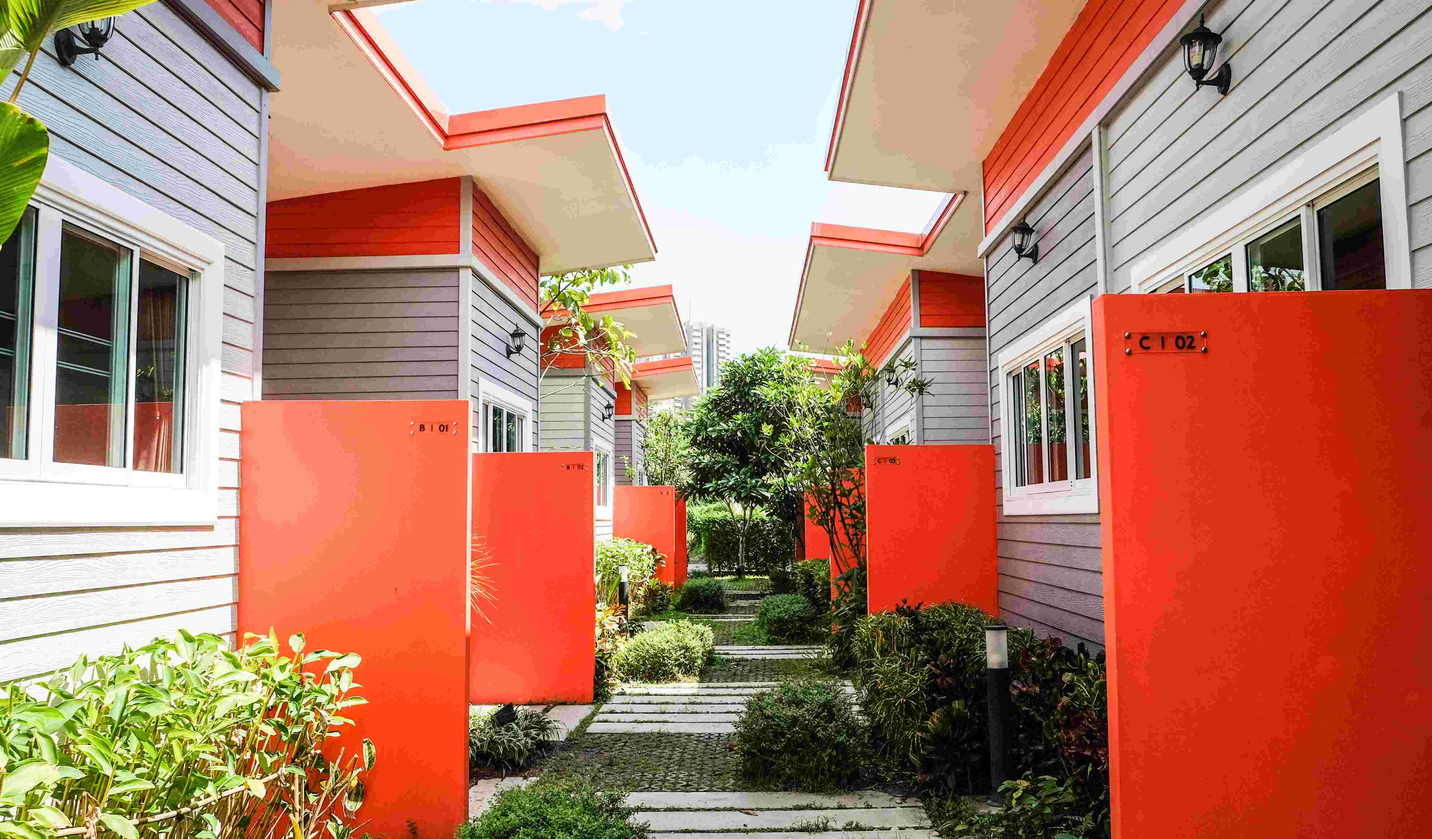
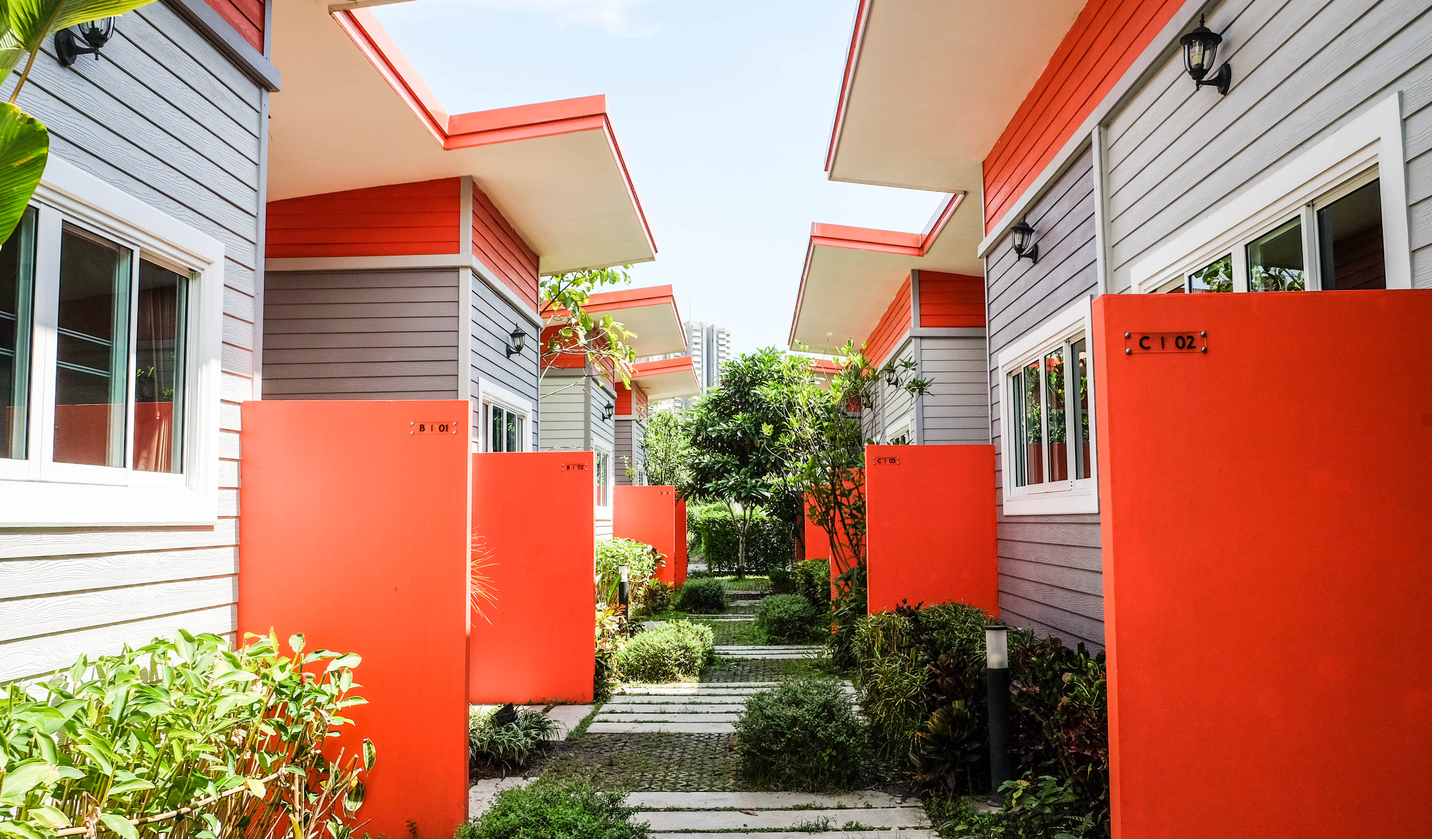
Remove slider

diff --git a/src/index.html b/src/index.html
@@ -14,7 +14,7 @@
     <link href='https://unpkg.com/boxicons@2.1.1/css/boxicons.min.css' rel='stylesheet'>
     <link rel="stylesheet" href="css/style.css">
 
-    <title>โรงแรม บ้าพเพ่ิมสุข เมืองทอง</title>
+    <title>โรงแรมเมืองทอง</title>
 </head>
 
 <body data-bs-spy="scroll" data-bs-target=".navbar" data-bs-offset="70">
@@ -75,20 +75,25 @@
         </div>
     </nav>
 
+    <!-- New header -->
+    <div class="header-background">
+      <h2 class="text-header">โรงแรมสะอาด ใกล้เมืองทอง</h2>
+      <div class="col-12 div-background-textbox">  </div> 
+      <img src="img/bg_banner2.jpg" alt="รูปภาพทดสอบ">
+    </div>
+
     <!-- SLIDER -->
     <div class="owl-carousel owl-theme hero-slider">
-        <div class="slide slide1">
+        <!-- <div class="slide slide1">
             <div class="container">
                 <div class="row">
-                    <div class="col-12 text-center text-white">
-                        <h6 class="text-white text-uppercase">design Driven for professional</h6>
-                        <h1 class="display-3 my-4">We craft digital<br />experiances</h1>
-                        <a href="#" class="btn btn-brand">Get Started</a>
-                        <a href="#" class="btn btn-outline-light ms-3">Our work</a>
-                    </div>
+                    <div class="col-12 div-background"></div>
+                    <h2  class="col-12 display-3 text-main-background">โรงแรมสะอาด ใกล้เมืองทอง<br />ราคาเข้าถึงได้</h2>
                 </div>
             </div>
-        </div>
+        </div> -->
+
+
         <!-- <div class="slide slide2">
             <div class="container">
                 <div class="row">

diff --git a/src/css/style.css b/src/css/style.css
@@ -98,7 +98,7 @@ section {
 }
 
 .slide1 {
-    background: linear-gradient(rgba(0, 0, 0, 0.4), rgba(0, 0, 0, 0.4)), url(../img/bg_banner2.jpg);
+    background:  url(../img/bg_banner2.jpg);
     background-size: cover;
     background-position: center;
     background-repeat: no-repeat;
@@ -111,10 +111,64 @@ section {
     background-repeat: no-repeat;
 }
 
+.header-background{
+    position: relative;
+}
+
+.div-background-textbox{
+    position:absolute;
+    background-color: black;
+    opacity:0.2;
+    top: 50%;
+    left: 50%;
+    transform: translate(-50%, -50%);
+    width: 75%;
+    height: 200px; 
+}
+
+.text-header{
+    position:absolute;
+    z-index: 1;
+    color: white;
+    
+    top: 50%;
+    left: 50%;
+    transform: translate(-50%, -50%);
+    font-size: calc(1.525rem + 3.3vw);
+
+    padding-top: 4%;
+    
+    width: 75%;
+    height: 200px;
+    text-align: center;
+}
+
+.div-background{
+    background-color: black;
+    opacity:0.2;
+    height: 200px;
+    width: 100%;    
+}
+
+.text-background{
+    color: black;
+    text-transform: uppercase;
+    width: 100%;
+
+}
+
+.text-main-background{
+    position: absolute;
+    text-align: center;
+}
+
+
 .slide .display-3 {
     text-transform: uppercase;
     color: #fff;
 }
+
+
 
 /* navbar */
 .top-nav {
